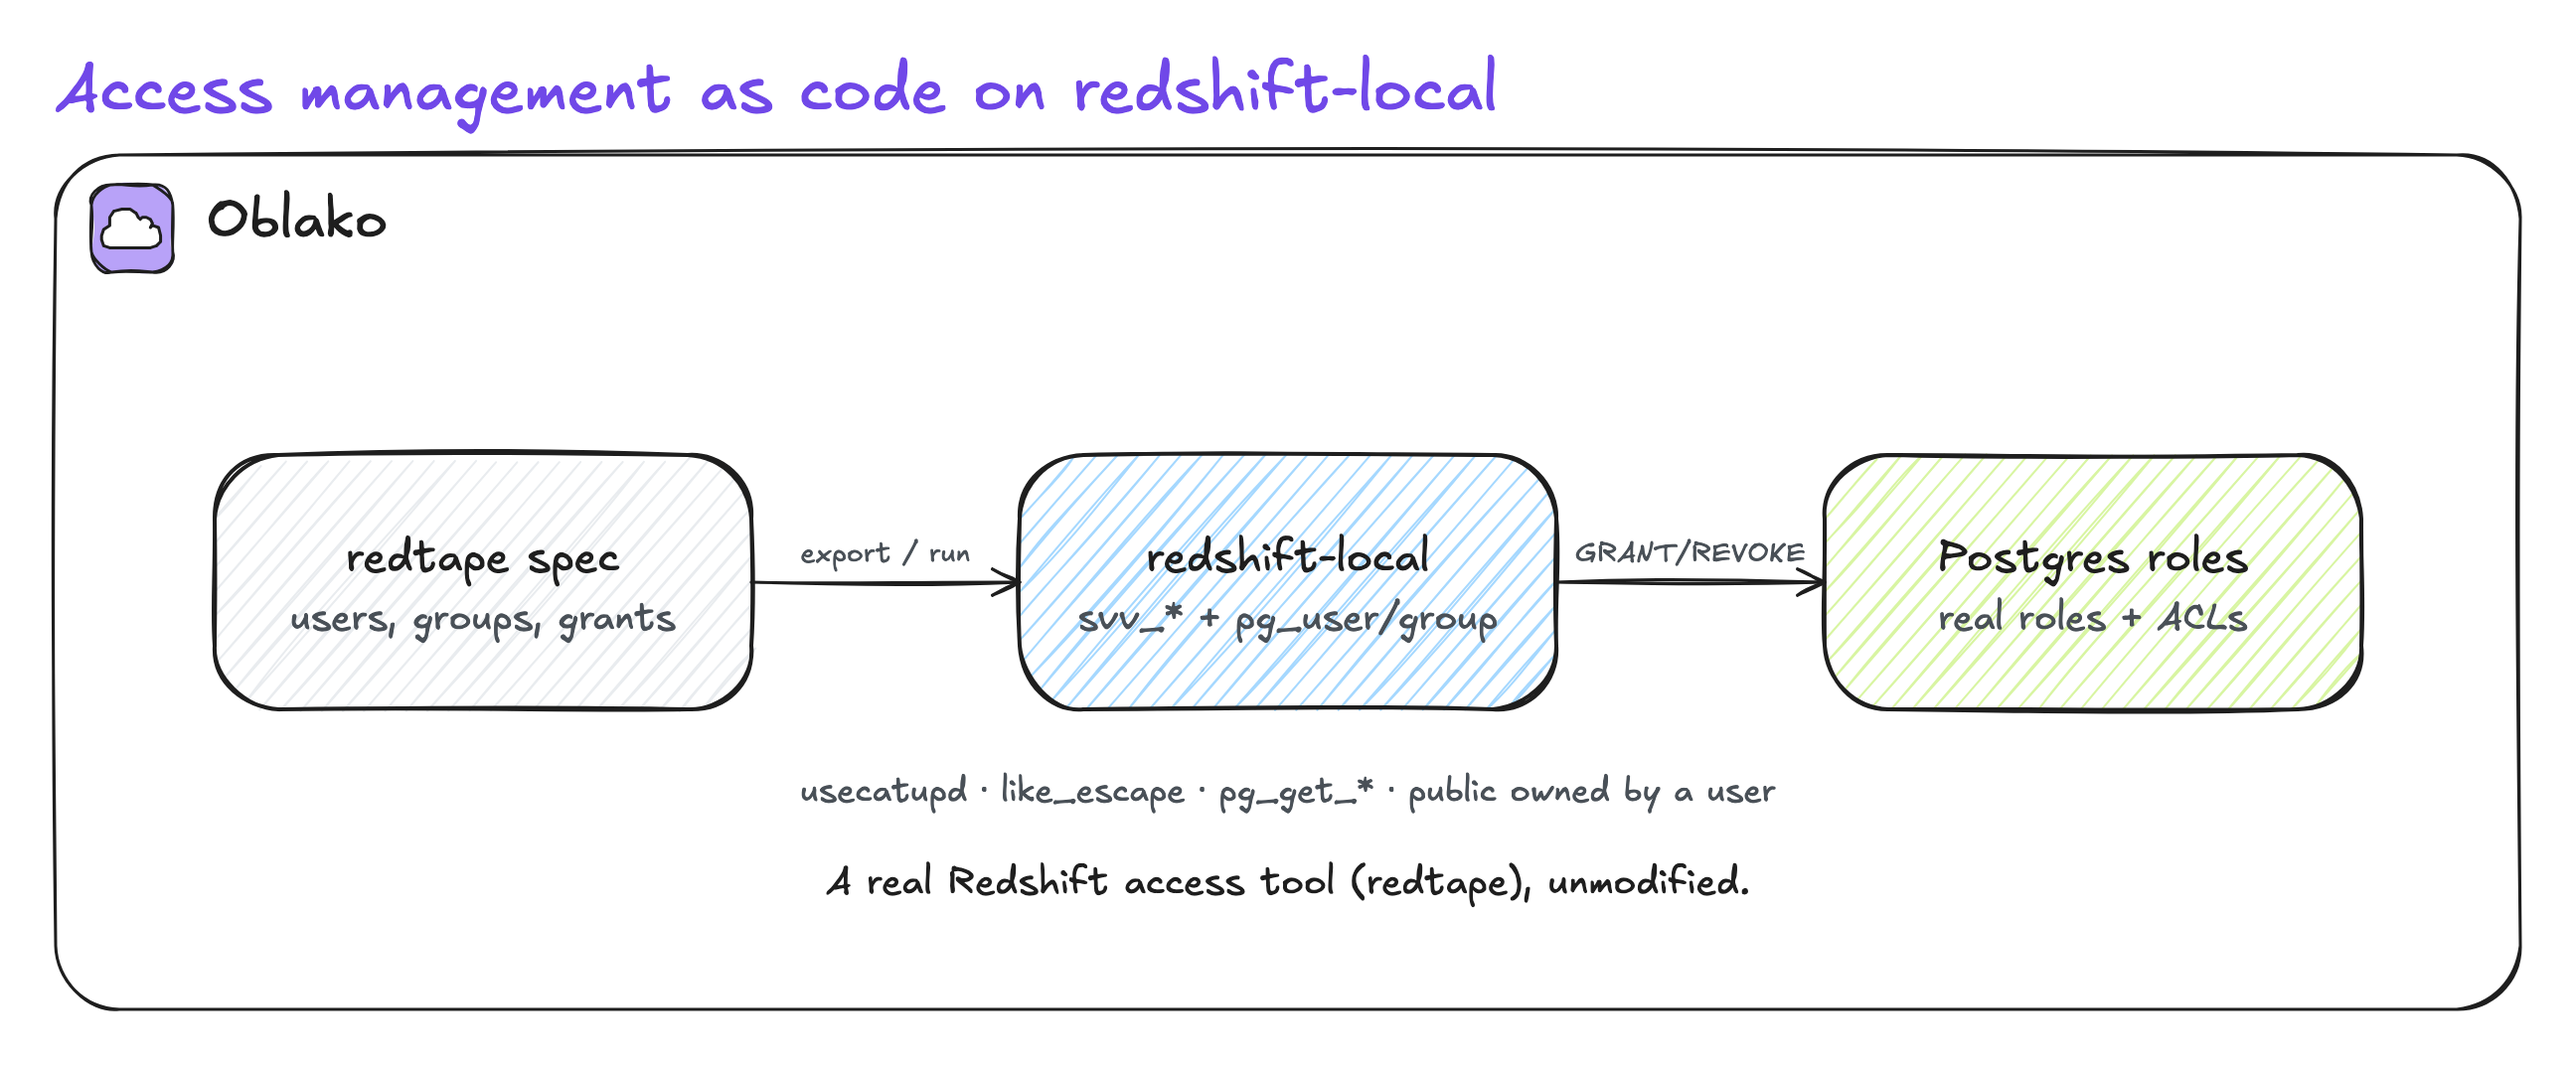
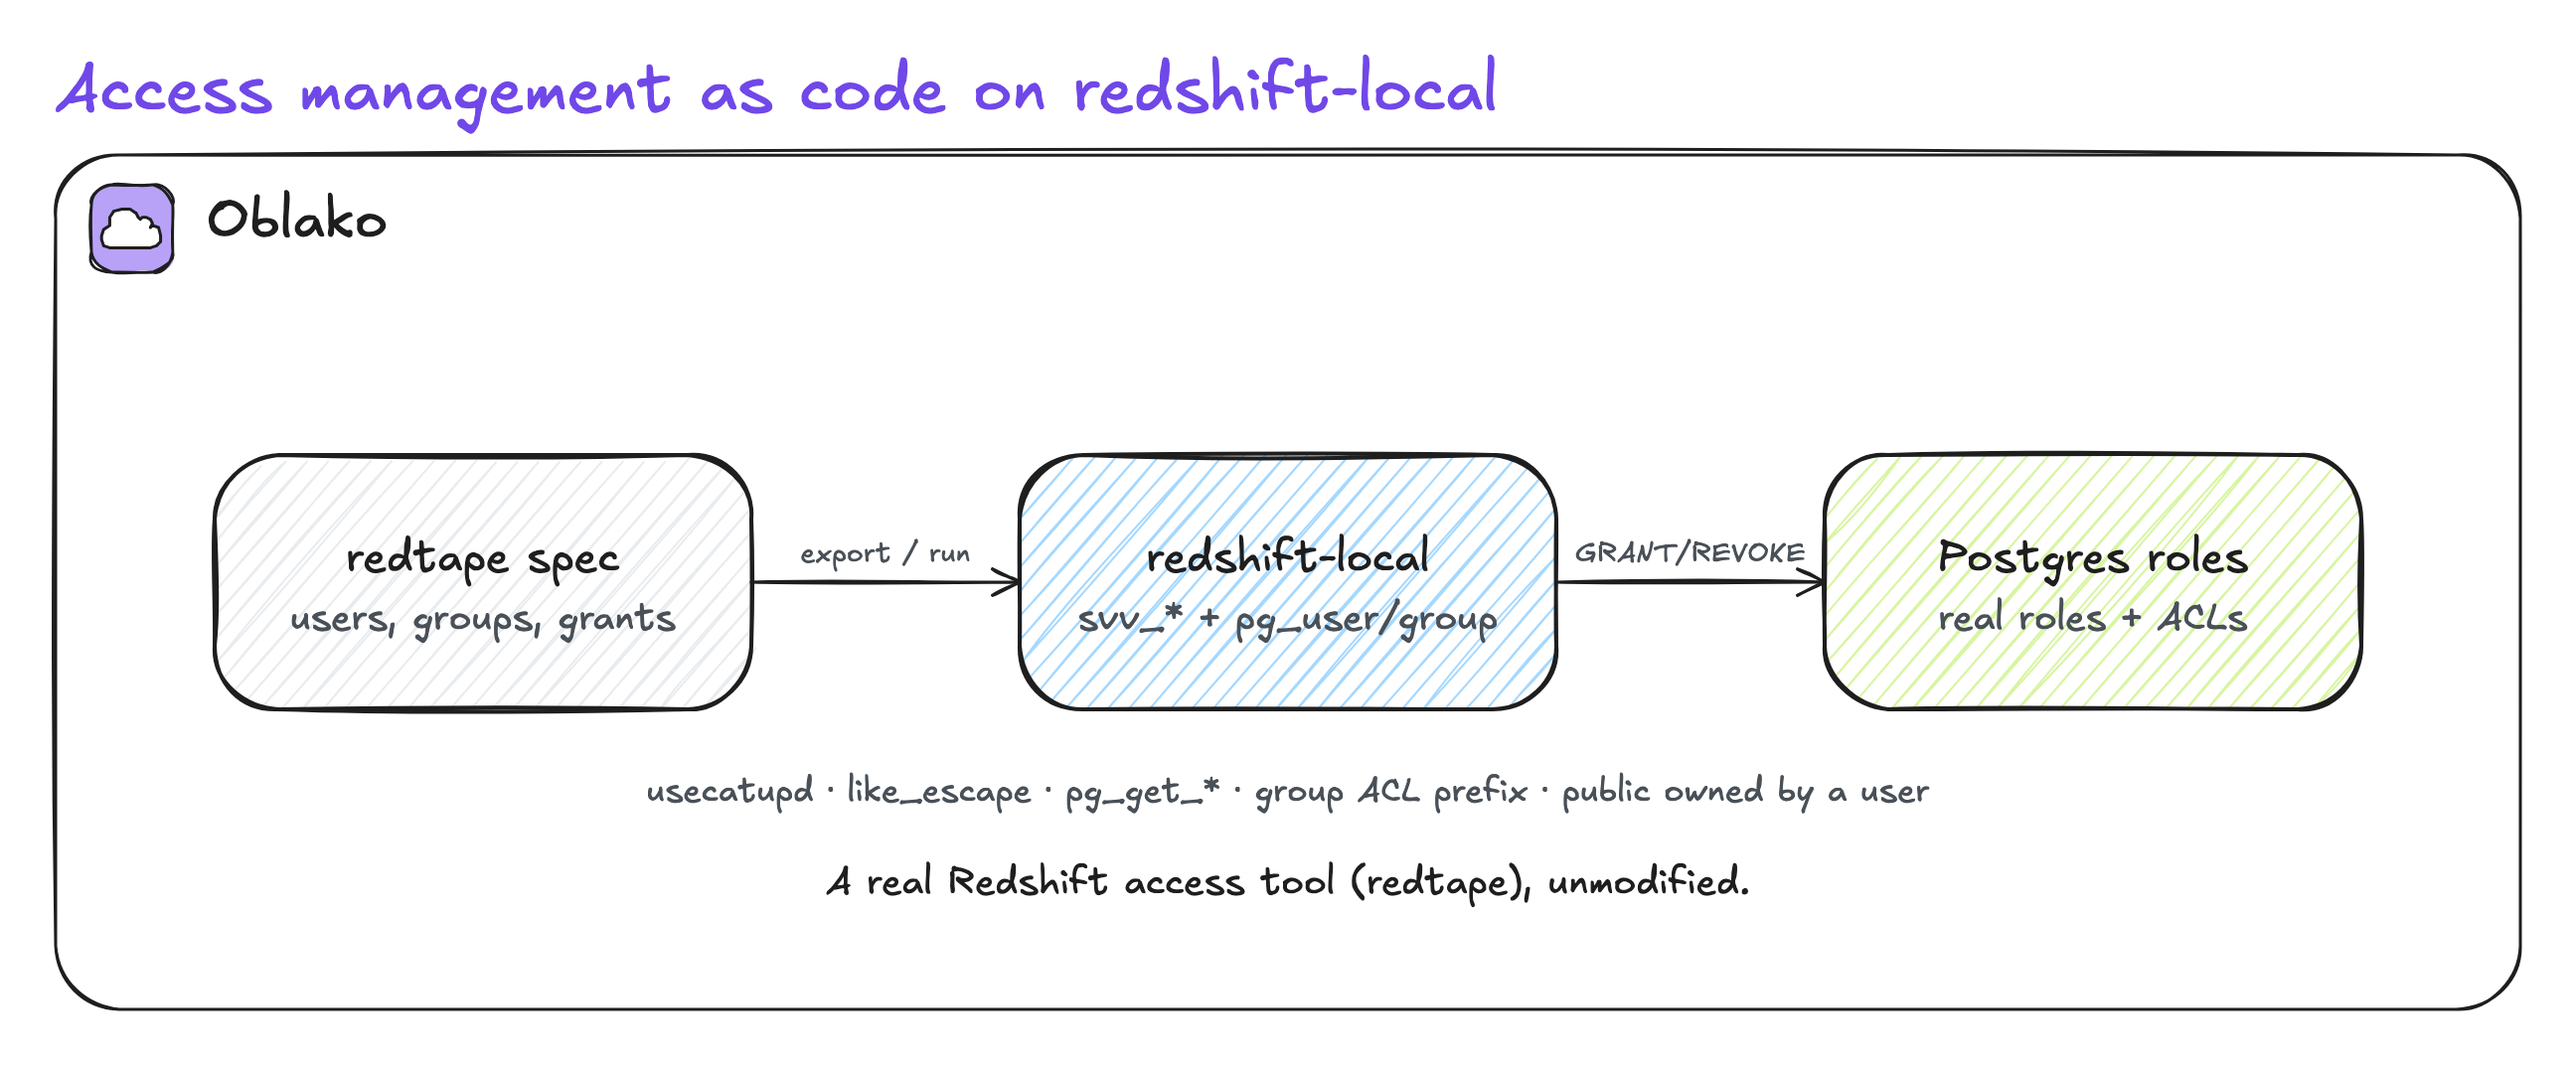
redshift(~): render group ACLs the way Redshift does, so redtape converges (#29)
* redshift(~): render group ACLs the way Redshift does, so redtape converges

Redshift renders a group grant in relacl/nspacl with a prefix,
`group analysts=r/bi_analyst`. PostgreSQL unified roles and groups in 8.1 and
renders the identical grant `analysts=r/bi_analyst`. Access tools parse that
string: redtape branches on the prefix (connectors.py:288), so on redshift-local
a group grant read back as a *user* grant, the group looked empty, and
`redtape run` re-planned the same GRANTs on every pass. The apply never
converged, which is the whole point of access-as-code.

Add redshift_acl(aclitem[], text), which prefixes a group grantee, and point
redtape's three ACL reads at it from the proxy, the same split as the other
shims. The function is spelt against pg_roles rather than pg_group: the proxy
rewrites pg_catalog.pg_group into a subquery, which would corrupt the function
body when 05 is re-applied through the proxy (the tests do exactly that).
`NOT rolcanlogin AND rolname !~ '^pg_'` is the predicate pg_group is defined by,
so both answers to "what is a group" stay consistent.

Also seed the `postgres` database with the catalog views. Tools that manage a
cluster rather than one database walk pg_database and reconnect per entry
(redtape's export does), and initdb creates `postgres` before these scripts run,
so template1 propagation never reached it. Renames 06 to match what it now does.

Verified against redtape 0.4.2: export exits 0 with the group carrying its
[…]

diff --git a/tests/redshift/test_redshift_redtape.py b/tests/redshift/test_redshift_redtape.py
@@ -7,16 +7,18 @@ redtape's `export`/`run` work against oblako's redshift-local unchanged.
 
 Requires the engine (docker compose up redshift). Applies the shipped
 `05_catalog_views.sql` (idempotent), then exercises the compat layer through the
-proxy on 5439.
+proxy, on 5439 unless OBLAKO_TEST_RS_PORT points it at an isolated stack.
 """
 
+import os
 from pathlib import Path
 
 import psycopg2
 import pytest
 
+RS_PORT = int(os.environ.get("OBLAKO_TEST_RS_PORT", "5439"))
 RS_CONFIG = dict(
-    host="localhost", port=5439, user="oblako", password="oblako", dbname="oblako"
+    host="localhost", port=RS_PORT, user="oblako", password="oblako", dbname="oblako"
 )
 SQL = (
     Path(__file__).parents[2] / "oblako/images/redshift/initdb.d/05_catalog_views.sql"
@@ -102,3 +104,100 @@ def test_public_schema_owned_by_a_real_user(cursor):
         "ON n.nspowner = u.usesysid WHERE n.nspname = 'public')"
     )
     assert cursor.fetchone()[0] is True
+
+
+# redtape's exact ACL reads (connectors.py:34, :68). The proxy points these at
+# redshift_acl(), which renders a group grantee the way Redshift does.
+REDTAPE_SCHEMA_ACL_Q = (
+    "SELECT array_to_string(pgn.nspacl, (',')::text)::TEXT AS schema_acl "
+    "FROM pg_namespace pgn WHERE pgn.nspname = 'redtape_sales'"
+)
+REDTAPE_TABLE_ACL_Q = (
+    "SELECT array_to_string(pgc.relacl, ','::text)::TEXT AS table_acl "
+    "FROM pg_class pgc WHERE pgc.relname = 'redtape_orders'"
+)
+
+
+def parse_acl_holder(acl_str):
+    """redtape's ACL-holder branch (connectors.py:283-293), verbatim in behaviour.
+
+    Returns (holder_name, holder_type) for a single `grantee=privs/grantor` entry.
+    """
+    acl_str, _, _ = acl_str.partition("/")
+    user_or_group, _, _actions = acl_str.partition("=")
+    if not user_or_group:
+        return "PUBLIC", "PUBLIC"
+    if user_or_group.startswith("group"):
+        return user_or_group.split(" ")[1], "group"
+    return user_or_group, "user"
+
+
+@pytest.fixture
+def group_grant(cursor):
+    """A group and a user each granted on one schema + table, dropped afterwards."""
+    cursor.execute("DROP SCHEMA IF EXISTS redtape_sales CASCADE")
+    cursor.execute("DROP GROUP IF EXISTS redtape_analysts")
+    cursor.execute("DROP USER IF EXISTS redtape_bi")
+    cursor.execute("CREATE GROUP redtape_analysts")
+    cursor.execute("CREATE USER redtape_bi PASSWORD 'Analyst_1'")
+    cursor.execute("CREATE SCHEMA redtape_sales")
+    cursor.execute("CREATE TABLE redtape_sales.redtape_orders (id int)")
+    cursor.execute("GRANT USAGE ON SCHEMA redtape_sales TO GROUP redtape_analysts")
+    cursor.execute(
+        "GRANT SELECT ON redtape_sales.redtape_orders TO GROUP redtape_analysts"
+    )
+    cursor.execute("GRANT SELECT ON redtape_sales.redtape_orders TO redtape_bi")
+    yield cursor
+    cursor.execute("DROP SCHEMA IF EXISTS redtape_sales CASCADE")
+    cursor.execute("DROP GROUP IF EXISTS redtape_analysts")
+    cursor.execute("DROP USER IF EXISTS redtape_bi")
+
+
+def test_group_grant_acl_uses_redshift_group_prefix(group_grant):
+    """Group grantees read back prefixed, as Redshift renders them, not bare."""
+    for query in (REDTAPE_SCHEMA_ACL_Q, REDTAPE_TABLE_ACL_Q):
+        group_grant.execute(query)
+        acl = group_grant.fetchone()[0]
+        assert "group redtape_analysts=" in acl
+
+
+def test_user_grant_acl_has_no_group_prefix(group_grant):
+    """A user grantee stays bare, so only real groups pick up the prefix."""
+    group_grant.execute(REDTAPE_TABLE_ACL_Q)
+    entries = group_grant.fetchone()[0].split(",")
+    user = [e for e in entries if e.startswith("redtape_bi=")]
+    assert user and not any(e.startswith("group redtape_bi=") for e in entries)
+
+
+def test_acl_parses_as_a_group_not_a_user(group_grant):
+    """The loop redtape actually runs: grant to a group, re-read, still a group.
+
+    Both reads, because redtape diffs schema privileges through a query of its own,
+    and a group USAGE grant on a schema renders bare in PostgreSQL exactly as a
+    table grant does. Without the prefix these return ("redtape_analysts", "user"),
+    the group reads as holding nothing, and redtape re-plans the same GRANT forever.
+    """
+    for query in (REDTAPE_SCHEMA_ACL_Q, REDTAPE_TABLE_ACL_Q):
+        group_grant.execute(query)
+        holders = dict(
+            parse_acl_holder(e) for e in group_grant.fetchone()[0].split(",")
+        )
+        assert holders["redtape_analysts"] == "group"
+    assert holders["redtape_bi"] == "user"  # the user grant is on the table only
+
+
+def test_compat_layer_reaches_the_postgres_database():
+    """Tools that walk pg_database and reconnect (redtape export) hit `postgres`.
+
+    initdb creates it before the init scripts run, so template1 does not reach it;
+    06 seeds it directly. Without this, the ACL read fails there.
+    """
+    conn = psycopg2.connect(**{**RS_CONFIG, "dbname": "postgres"})
+    conn.autocommit = True
+    with conn.cursor() as cur:
+        cur.execute(
+            "SELECT to_regprocedure('public.redshift_acl(aclitem[],text)') IS NOT NULL,"
+            " to_regclass('public.svv_external_schemas') IS NOT NULL"
+        )
+        assert cur.fetchone() == (True, True)
+    conn.close()

diff --git a/oblako/images/redshift/proxy/redshift_proxy.py b/oblako/images/redshift/proxy/redshift_proxy.py
@@ -155,6 +155,27 @@ _PG_GROUP_SUB = (
     "WHERE groname !~ '^pg_') AS pg_group"
 )
 
+# ACL strings: Redshift prefixes a group grantee (`group analysts=r/bi_analyst`),
+# PostgreSQL does not (`analysts=r/bi_analyst`), because roles and groups are
+# unified. Clients parse that string, so without the prefix a group grant reads as a
+# user grant: redtape then files the group as a user, sees it holding nothing, and
+# re-plans the same GRANTs forever. Point any array_to_string over an ACL array at
+# redshift_acl(), which takes the same two arguments and adds the prefix (see
+# initdb.d/05_catalog_views.sql). Only the function name is replaced, so the
+# arguments and any surrounding cast are left as written.
+#
+# An explicit pg_catalog. qualifier is consumed with it (sqlalchemy-redshift's
+# reflection writes pg_catalog.array_to_string(c.relacl, ...)): redshift_acl lives in
+# public, so leaving the qualifier would point at a schema it is not in. Every ACL
+# reader gets the Redshift rendering, which is what the real cluster returns them.
+#
+# Ungated: an array_to_string over an *acl column is specific enough on its own, and
+# redtape's tables query carries none of the catalog markers below.
+_ACL_TO_STRING = re.compile(
+    r"(?i)\b(?:pg_catalog\s*\.\s*)?array_to_string\s*\(\s*"
+    r'(?=[\w".]*\b(?:rel|nsp|dat)acl\b)'
+)
+
 # Redshift reflection drivers (sqlalchemy-redshift, and thus Alembic) run three
 # fixed catalog queries against a forked pg_catalog. Each SELECTs local relations
 # and UNIONs in Spectrum / late-binding-view externals, using Redshift-only SQL
@@ -217,7 +238,8 @@ def rewrite_sql(sql: str) -> str:
 
     ``VARCHAR(MAX)`` -> ``text`` (any statement); Redshift-only pg_catalog columns
     reflection drivers read are answered with neutral literals (see
-    ``_rewrite_catalog``); Redshift physical-DDL storage clauses (DISTSTYLE/
+    ``_rewrite_catalog``); ACL arrays are rendered with Redshift's ``group ``
+    prefix (see ``_ACL_TO_STRING``); Redshift physical-DDL storage clauses (DISTSTYLE/
     DISTKEY/SORTKEY/ENCODE/BACKUP) are stripped from CREATE TABLE; ``COPY``/
     ``UNLOAD`` to/from ``s3://`` are rewritten into oblako_* S3 bridge calls (see
     ``copy_unload``). Everything else is left untouched.
@@ -235,6 +257,7 @@ def rewrite_sql(sql: str) -> str:
     s = _VARCHAR_MAX.sub("text", s)
     s = _CREATEUSER.sub("SUPERUSER", s)
     s = _PG_GROUP.sub(_PG_GROUP_SUB, s)
+    s = _ACL_TO_STRING.sub("redshift_acl(", s)
     s = _rewrite_catalog(s)
     if not _CREATE_TABLE.search(s):
         return s

diff --git a/tests/redshift/test_redshift_proxy_unit.py b/tests/redshift/test_redshift_proxy_unit.py
@@ -266,3 +266,35 @@ def test_pg_group_filters_predefined_roles():
     assert "!~ '^pg_'" in out
     assert "pg_catalog.pg_group" in out  # the real table is still the source
     assert out.count("pg_catalog.pg_group") == 1  # replacement is not re-scanned
+
+
+def test_acl_array_to_string_becomes_redshift_acl():
+    """redtape's three ACL reads are pointed at redshift_acl (adds "group ")."""
+    for expr in (
+        "SELECT array_to_string(pgc.relacl, ','::text)::TEXT AS table_acl",
+        "SELECT array_to_string(pgn.nspacl, (',')::text)::TEXT AS schema_acl",
+        "SELECT array_to_string(pgd.datacl, (',')::text)::TEXT AS database_acl",
+    ):
+        out = rewrite_sql(expr)
+        assert "redshift_acl(" in out
+        assert "array_to_string" not in out
+        assert out.endswith(expr[expr.index("acl,") + 3 :])  # arguments untouched
+
+
+def test_acl_rewrite_consumes_the_pg_catalog_qualifier():
+    """sqlalchemy-redshift qualifies the call; redshift_acl lives in public, not there."""
+    out = rewrite_sql(
+        "SELECT pg_catalog.array_to_string(c.relacl, '\n') AS \"privileges\" "
+        "FROM pg_catalog.pg_class c"
+    )
+    assert "redshift_acl(c.relacl" in out
+    assert "pg_catalog.redshift_acl" not in out
+
+
+def test_acl_rewrite_leaves_other_array_to_string_alone():
+    """array_to_string over a non-ACL array is an ordinary call, not rewritten."""
+    for expr in (
+        "SELECT array_to_string(ARRAY['a','b'], ',')",
+        "SELECT array_to_string(t.tags, ',') FROM t",
+    ):
+        assert rewrite_sql(expr) == expr

diff --git a/docs/services.md b/docs/services.md
@@ -104,10 +104,20 @@ privileges declaratively run against the engine too.
 PostgreSQL lacks (`pg_user.usecatupd`, `svv_external_schemas.eskind`, `like_escape`,
 the data-sharing / external-schema set-functions) and owns `public` by a real user
 (PostgreSQL 15+ owns it by `pg_database_owner`, a role Redshift has no concept of, so
-a tool mapping a schema's owner to a user would find nobody). So `redtape export`
-reads oblako's users, groups, and grants, and `redtape run` applies `CREATE
-USER`/`GROUP`, `GRANT`/`REVOKE`, and `ALTER GROUP` against the real Postgres roles
-underneath, unchanged.
+a tool mapping a schema's owner to a user would find nobody).
+
+It also renders ACL strings the Redshift way. Redshift prefixes a group grantee,
+`group analysts=r/bi_analyst`; PostgreSQL unified roles and groups in 8.1 and writes
+the identical grant `analysts=r/bi_analyst`. That one is what makes the diff
+*converge*: a tool parsing the string would otherwise file the group as a user, read
+the group as holding nothing, and re-plan the same `GRANT`s on every pass.
+
+So `redtape export` reads oblako's users, groups, and grants, and `redtape run` plans
+`CREATE USER`/`GROUP`, `GRANT`/`REVOKE`, and `ALTER GROUP` against the real Postgres
+roles underneath, unchanged, and plans nothing once the cluster matches the spec.
+The catalog compat is installed in every database, not just the one `POSTGRES_DB`
+names, because a tool managing a cluster walks `pg_database` and reconnects per
+entry.
 
 ```{figure} _static/diagrams/access.svg
 :alt: redtape spec to redshift-local (svv_*, pg_user/group) to Postgres roles
